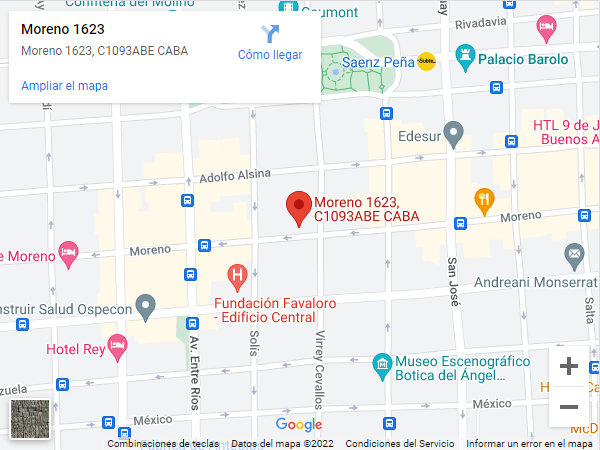
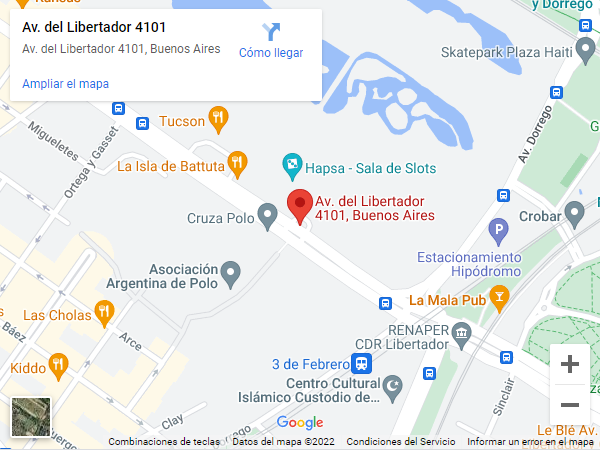
Cambiado nombre/ubicación del refugio ficticio, creado formulario de pre-inscripción en panel de usuario

diff --git a/src/components/user/Profile.jsx b/src/components/user/Profile.jsx
@@ -1,0 +1,178 @@
+function Profile() {
+    return (
+        <div className="profile-wrapper">
+            <h1>Panel de usuario</h1>
+            <div className="row">
+                <div className="col">
+					<ul className="nav nav-pills justify-content-center" id="pills-tab" role="tablist">
+						<li className="nav-item" role="presentation">
+							<button className="nav-link" id="pills-personal-tab" data-bs-toggle="pill" data-bs-target="#pills-personal" type="button" role="tab" aria-controls="pills-personal" aria-selected="true"><i className="bi bi-person-fill"></i> Datos personales</button>
+						</li>
+						<li className="nav-item" role="presentation">
+							<button className="nav-link active" id="pills-adoption-tab" data-bs-toggle="pill" data-bs-target="#pills-adoption" type="button" role="tab" aria-controls="pills-adoption" aria-selected="false"><i className="bi bi-file-text-fill"></i> Formulario de pre-adopción</button>
+						</li>
+						<li className="nav-item" role="presentation">
+							<button className="nav-link" id="pills-settings-tab" data-bs-toggle="pill" data-bs-target="#pills-settings" type="button" role="tab" aria-controls="pills-settings" aria-selected="false"><i className="bi bi-gear-fill"></i> Configuración</button>
+						</li>
+					</ul>
+					<div className="tab-content" id="pills-tabContent">
+						<div className="tab-pane fade" id="pills-personal" role="tabpanel" aria-labelledby="pills-personal-tab" tabIndex="0">
+							<div className='row thumbnails-wrapper'>
+								<p>Datos personales</p>
+							</div>
+						</div>
+						<div className="tab-pane fade show active" id="pills-adoption" role="tabpanel" aria-labelledby="pills-adoption-tab" tabIndex="0">
+                            <div className="row">
+                                <div id="adoption_form_wrapper">
+                                    <h4>Para poder postularse e iniciar el proceso de adopción de un animal, es necesario que completes este formulario para brindarle información a los refugios sobre tu persona y te tengan en consideración.</h4>
+									{/*<img className="img-fluid" width={300} src="https://cdn.wamiz.fr/article/images/WAMIZ%20ES/FEBRERO%202021/MARZO%202021/gatoguinandoojoysonriendo.jpg" alt="gato"/>*/}
+									<div class="card">
+										<div class="card-body">
+											<p><span className="badge rounded-pill text-bg-danger"><i className="bi bi-exclamation-circle"></i> Importante:</span> tus respuestas serán evaluadas por los responsables del refugio y, en base a su criterio, tu solicitud de adopción será aceptada o rechazada.</p>											
+											<div className="row">
+												<div className="col">
+													<div className="form-field">
+														<p>¿Alguna vez tuvo a cargo alguna mascota?*</p>	
+														<div class="form-check form-check-inline">
+																<input class="form-check-input" type="radio" name="radioI" id="inlineRadio1" value="option1"/>
+																<label class="form-check-label" for="inlineRadio1">Si</label>
+														</div>
+														<div class="form-check form-check-inline">
+															<input class="form-check-input" type="radio" name="radioI" id="inlineRadio2" value="option2"/>
+															<label class="form-check-label" for="inlineRadio2">No</label>
+														</div>
+													</div>
+													<div className="form-field">
+														<p>¿Convive con más personas?*</p>	
+														<div class="form-check form-check-inline">
+																<input class="form-check-input" type="radio" name="radioII" id="inlineRadio3" value="option1"/>
+																<label class="form-check-label" for="inlineRadio3">Si</label>
+														</div>
+														<div class="form-check form-check-inline">
+															<input class="form-check-input" type="radio" name="radioII" id="inlineRadio4" value="option2"/>
+															<label class="form-check-label" for="inlineRadio4">No</label>
+														</div>
+													</div>
+													<div className="form-field">
+														<p>¿Cuántos ambientes tiene su hogar?*</p>
+														<div class="form-check form-check-inline">
+															<input class="form-check-input" type="radio" name="radioIII" id="inlineRadio5" value="option1"/>
+															<label class="form-check-label" for="inlineRadio5">2</label>
+														</div>
+														<div class="form-check form-check-inline">
+															<input class="form-check-input" type="radio" name="radioIII" id="inlineRadio6" value="option2"/>
+															<label class="form-check-label" for="inlineRadio6">3</label>
+														</div>
+														<div class="form-check form-check-inline">
+															<input class="form-check-input" type="radio" name="radioIII" id="inlineRadio7" value="option3"/>
+															<label class="form-check-label" for="inlineRadio7">4 o más</label>
+														</div>
+													</div>
+													<div className="form-field">
+														<p>¿Cuántas veterinarias tiene cerca de su zona?*</p>
+														<input type="number" className="form-control"/>
+													</div>
+													<div className="form-field">
+														<p>Su hogar tiene...*</p>
+														<div class="form-check form-check-inline">
+															<input class="form-check-input" type="checkbox" id="inlineCheckbox1" value="option1"/>
+															<label class="form-check-label" for="inlineCheckbox1">Patio (para perros)</label>
+														</div>
+														<div class="form-check form-check-inline">
+															<input class="form-check-input" type="checkbox" id="inlineCheckbox2" value="option2"/>
+															<label class="form-check-label" for="inlineCheckbox2">Balcón (para perros)</label>
+														</div>
+														<div class="form-check form-check-inline">
+															<input class="form-check-input" type="checkbox" id="inlineCheckbox3" value="option3"/>
+															<label class="form-check-label" for="inlineCheckbox3">Redes en ventanas a altura (para gatos)</label>
+														</div>
+													</div>
+													<div className="form-field">
+														<p>¿Posee mascotas actualmente?*</p>	
+														<div class="form-check form-check-inline">
+																<input class="form-check-input" type="radio" name="radioIV" id="inlineRadio8" value="option1"/>
+																<label class="form-check-label" for="inlineRadio8">Si</label>
+														</div>
+														<div class="form-check form-check-inline">
+															<input class="form-check-input" type="radio" name="radioIV" id="inlineRadio9" value="option2"/>
+															<label class="form-check-label" for="inlineRadio9">No</label>
+														</div>
+													</div>
+													<div className="form-field">
+														<p>¿Tiene conocimiento acerca de la ley del maltrato animal?*</p>
+														<div class="form-check form-check-inline">
+																<input class="form-check-input" type="radio" name="radioV" id="inlineRadio10" value="option1"/>
+																<label class="form-check-label" for="inlineRadio10">Si</label>
+														</div>
+														<div class="form-check form-check-inline">
+															<input class="form-check-input" type="radio" name="radioV" id="inlineRadio11" value="option2"/>
+															<label class="form-check-label" for="inlineRadio11">No</label>
+														</div>
+													</div>
+													<div className="form-field">
+														<p>¿Con que frecuencia quedaría solo el animal en el hogar?...*</p>
+														<div class="form-check form-check-inline">
+															<input class="form-check-input" type="radio" name="radioVI" id="inlineRadio12" value="option1"/>
+															<label class="form-check-label" for="inlineRadio12">Poco frecuente</label>
+														</div>
+														<div class="form-check form-check-inline">
+															<input class="form-check-input" type="radio" name="radioVI" id="inlineRadio13" value="option2"/>
+															<label class="form-check-label" for="inlineRadio13">Algo frecuente</label>
+														</div>
+														<div class="form-check form-check-inline">
+															<input class="form-check-input" type="radio" name="radioVI" id="inlineRadio14" value="option3"/>
+															<label class="form-check-label" for="inlineRadio14">Muy frecuente</label>
+														</div>
+													</div>
+													<div className="form-field">
+														<p>Si hubiera una emergencia con el animal, ¿tendria alguien a quien recurrir para que lo lleve al veterinario?*</p>
+														<div class="form-check form-check-inline">
+																<input class="form-check-input" type="radio" name="radioVII" id="inlineRadio15" value="option1"/>
+																<label class="form-check-label" for="inlineRadio15">Si</label>
+														</div>
+														<div class="form-check form-check-inline">
+															<input class="form-check-input" type="radio" name="radioVII" id="inlineRadio16" value="option2"/>
+															<label class="form-check-label" for="inlineRadio16">No</label>
+														</div>
+													</div>
+													<div className="form-field">
+														<p>¿Su remuneración es acorde a los gastos que estima tener para el cuidado del animal?*</p>
+														<div class="form-check form-check-inline">
+															<input class="form-check-input" type="radio" name="radioVIII" id="inlineRadio17" value="option1"/>
+															<label class="form-check-label" for="inlineRadio17">Si</label>
+														</div>
+														<div class="form-check form-check-inline">
+															<input class="form-check-input" type="radio" name="radioVIII" id="inlineRadio18" value="option2"/>
+															<label class="form-check-label" for="inlineRadio18">No</label>
+														</div>
+													</div>
+													<div className="form-field">
+														<p>¿Tiene familiares o conocidos que lo aconsejen (gracias a su experiencia) ante cualquier eventualidad durante la crianza del animal?*</p>
+														<div class="form-check form-check-inline">
+															<input class="form-check-input" type="radio" name="radioIX" id="inlineRadio19" value="option1"/>
+															<label class="form-check-label" for="inlineRadio19">Si</label>
+														</div>
+														<div class="form-check form-check-inline">
+															<input class="form-check-input" type="radio" name="radioIX" id="inlineRadio20" value="option2"/>
+															<label class="form-check-label" for="inlineRadio20">No</label>
+														</div>
+													</div>
+													<p><small><i>(*) Todos los campos son obligatorios</i></small></p>
+												</div>
+											</div>
+										</div>
+									</div>
+                                </div>
+                            </div>
+                        </div>
+						<div className="tab-pane fade" id="pills-settings" role="tabpanel" aria-labelledby="pills-settings-tab" tabIndex="0">
+                            <p>Configuración</p>
+                        </div>
+					</div>
+				</div>
+            </div>
+        </div>
+    );
+}
+
+export default Profile;

diff --git a/src/components/shelter/sections/Publication.jsx b/src/components/shelter/sections/Publication.jsx
@@ -1,6 +1,8 @@
 import {useState,useEffect, useCallback} from 'react';
 import {Link, useNavigate} from 'react-router-dom';
 
+import AdoptionProcessStarted from './AdoptionProcessStarted';
+
 function Publication() {
     const navigate = useNavigate();
     //const [didMount, setDidMount] = useState(false);
@@ -49,21 +51,25 @@ function Publication() {
                             </div>
                             <div className="information">
                                 <span>Nombre:</span>
-                                <p><img className="img-fluid" width={20} src="/img/posts/huellas.png" alt="huella"/> Ayudante de santa</p>
+                                <p><img className="img-fluid" width={20} src="/img/posts/huellas.png" alt="huella"/> Chispita</p>
                                 <span>Edad aproximada:</span>
                                 <p><img className="img-fluid" width={20} src="/img/posts/huellas.png" alt="huella"/> 4 años</p>
                                 <span>Situación previa:</span>
                                 <p><img className="img-fluid" width={20} src="/img/posts/huellas.png" alt="huella"/> En la calle</p>
                                 <span>Vacunas aplicadas:</span>
                                 <ul>
-                                    <li>Antirrábica</li>
-                                    <li>Polivalente</li>
+                                    <li>Rabia</li>
+                                    <li>Moquillo</li>
                                     <li>Parvovirus</li>
                                 </ul>
                                 <span>Raza:</span>
                                 <p><img className="img-fluid" width={20} src="/img/posts/huellas.png" alt="huella"/> Labrador</p>
                                 <span>Altura:</span>
                                 <p><img className="img-fluid" width={20} src="/img/posts/huellas.png" alt="huella"/> 60cm.</p>
+                                <span>Esterilizado</span>
+                                <p><img className="img-fluid" width={20} src="/img/posts/huellas.png" alt="huella"/> Si</p>
+                                <span>Desparasitado</span>
+                                <p><img className="img-fluid" width={20} src="/img/posts/huellas.png" alt="huella"/> Si</p>
                                 <p>Observaciones:</p>
                                 <p>There are many variations of passages of Lorem Ipsum available, but the majority have suffered alteration in some form, by injected humour, or randomised words which don't look even slightly believable. If you are going to use a passage of Lorem Ipsum, you need to be sure there isn't anything embarrassing hidden in the middle of text.</p>
                             </div>
@@ -72,25 +78,7 @@ function Publication() {
                 </div>
             </div>
             
-            <div className="modal fade" id="startAdoptionModal" tabIndex="-1" data-bs-backdrop="static" data-bs-keyboard="false" aria-labelledby="exampleModalLabel" aria-hidden="true">
-                <div className="modal-dialog modal-dialog-centered">
-                    <div className="modal-content">
-                    {/*<div className="modal-header">
-                        <h1 className="modal-title fs-5" id="exampleModalLabel">Modal title</h1>
-                        <button type="button" className="btn-close" data-bs-dismiss="modal" aria-label="Close"></button>
-                    </div>*/}
-                    <div className="modal-body">
-                        <img className="img-fluid" width={200} src="/img/posts/perro_saludando.png" alt="perro_saludando"/>
-                        <h2>¡Felicitaciones!</h2>
-                        <p>Estás un paso más cerca de ese gran amigo que estás buscando.</p>
-                        <p>El refugio se contactará contigo para coordinar una cita.</p>
-                    </div>
-                    <div className="modal-footer">
-                        <button type="button" className="btn btn-primary" data-bs-dismiss="modal">De acuerdo</button>
-                    </div>
-                    </div>
-                </div>
-            </div>
+            <AdoptionProcessStarted/>
         </>
     );
 }

diff --git a/src/components/user/Notifications.jsx b/src/components/user/Notifications.jsx
@@ -7,10 +7,10 @@ function Notifications() {
             <h3><i className="bi bi-eye-slash"></i> Solicitudes pendientes</h3>
             <div className="card notification text-center">
                 <div className="card-body">
-                    <h5 className="card-title">El <Link to="/shelter/1">Refugio #1</Link> ha respondido tu solicitud de adopción</h5>
+                    <h5 className="card-title">El <Link to="/shelter/1">Refugio San Pedro</Link> ha respondido tu solicitud de adopción</h5>
                     <img className="img-fluid" width={100} src="/img/clock.png" alt="clock"/>
                     <p className="card-text pt-2">Se te ha reservado un turno para visitar el refugio en la siguiente fecha:</p>
-                    <p><b>10/11/2022 a las 12:00 hs.</b></p>
+                    <p><b>20/11/2022 a las 12:00 hs.</b></p>
                     <button type="button" className="btn btn-danger me-4"><i className="bi bi-x-lg"></i> Cancelar adopción</button>
                     <button type="button" className="btn btn-primary me-4"><i className="bi bi-check-lg"></i> Confirmo asistencia</button>
                     <button type="button" className="btn btn-secondary"><i className="bi bi-clock"></i> Reprogramar cita</button>
@@ -24,8 +24,8 @@ function Notifications() {
                 <div className="card-body">
                     <img className="img-fluid" width={80} src="/img/check.png" alt="check"/>
                     <h5 className="card-title">Visita confirmada</h5>
-                    <p className="card-text pt-2">Has confirmado tu asistencia para visitar el <Link to="/shelter/1">Refugio #1</Link> en la siguiente fecha:</p>
-                    <p><b>10/11/2022 a las 12:00 hs.</b></p>
+                    <p className="card-text pt-2">Has confirmado tu asistencia para visitar el <Link to="/shelter/1">Refugio San Pedro</Link> en la siguiente fecha:</p>
+                    <p><b>20/11/2022 a las 12:00 hs.</b></p>
                 </div>
                 <div className="card-footer text-muted"><small>Visita confirmada el 5/11/2022 21:45 hs.</small></div>
             </div>

diff --git a/src/components/shelter/sections/AdoptionProcessStarted.jsx b/src/components/shelter/sections/AdoptionProcessStarted.jsx
@@ -1,6 +1,20 @@
 function AdoptionProcessStarted() {
     return (
-        <div></div>
+        <div className="modal fade" id="startAdoptionModal" tabIndex="-1" data-bs-backdrop="static" data-bs-keyboard="false" aria-labelledby="exampleModalLabel" aria-hidden="true">
+            <div className="modal-dialog modal-dialog-centered">
+                <div className="modal-content">
+                    <div className="modal-body">
+                        <img className="img-fluid" width={200} src="/img/posts/perro_saludando.png" alt="perro_saludando"/>
+                        <h2>¡Felicitaciones!</h2>
+                        <p>Estás un paso más cerca de ese gran amigo que estás buscando.</p>
+                        <p>El refugio se contactará contigo para coordinar una cita.</p>
+                    </div>
+                    <div className="modal-footer">
+                        <button type="button" className="btn btn-primary" data-bs-dismiss="modal">De acuerdo</button>
+                    </div>
+                </div>
+            </div>
+        </div>
     );
 }
 

diff --git a/src/components/App.js b/src/components/App.js
@@ -4,6 +4,7 @@ import {Routes,Route} from 'react-router-dom';
 import Welcome from "./home/Welcome";
 import AuthenticationForms from "./auth/AuthenticationForms";
 //import Register from "./auth/Register";
+import Profile from "./user/Profile";
 import Notifications from "./user/Notifications";
 import Shelter from './shelter/Shelter';
 import ShelterDetails from './shelter/ShelterDetails';
@@ -22,6 +23,7 @@ class Layout extends React.Component {
                 <Routes>
                     <Route exact path="/" element={<Welcome/>}></Route>
                     <Route path="/auth/signin" element={<AuthenticationForms/>}></Route>
+                    <Route path="/user/profile" element={<Profile/>}></Route>
                     <Route path="/user/notifications" element={<Notifications/>}></Route>
                     <Route path="/shelter" element={<Shelter/>}>
                         <Route path="*" element={<NotFound/>}></Route>

diff --git a/public/css/site.css b/public/css/site.css
@@ -76,6 +76,19 @@ body {
 	font-family: 'Inter';
 }
 
+#root::after {
+	content: '';
+	position: fixed;
+	top: 0;
+	left: 0;
+  	bottom: 0;
+  	right: 0;
+  	z-index: -1;
+	background-image: url('../img/posts/huellas.png');
+	background-repeat: repeat;
+	opacity: 0.016;
+}
+
 #root > :nth-child(2):not(section) {
 	padding-top: 5rem;
 }
@@ -99,6 +112,8 @@ a{
 
 .btn:not(#shelter_search_button) {
 	border-radius: var(--default-border-radius) !important;
+	padding-right: 2rem;
+	padding-left: 2rem;
 }
 
 /*#shelter_zones, #shelter_search {
@@ -124,7 +139,7 @@ a{
 	background-color: #3b81ff !important;
 }
 
-button[class*="btn-"]:hover {
+button[class*="btn-"]:hover, a[class*="btn-"]:hover {
 	box-shadow: 0px 1px 4px 0px #424242;
 }
 

diff --git a/src/components/shelter/Shelter.jsx b/src/components/shelter/Shelter.jsx
@@ -41,10 +41,10 @@ function Shelter(props) {
 
     return (
         <div className="shelters-wrapper">
-            <h1><i className="bi bi-geo-alt-fill"></i> Refugios encontrados en tu zona: Monserrat</h1>
-            <div className="row pb-4">{sheltersLoop('Monserrat', true)}</div>
+            <h1><i className="bi bi-geo-alt-fill"></i> Refugios encontrados en tu zona: Palermo</h1>
+            <div className="row pb-4">{sheltersLoop('Palermo', true)}</div>
             <h2 className="pt-4">Otros refugios que te pueden interesar</h2>
-            <div className="row">{sheltersLoop('Monserrat', false)}</div>
+            <div className="row">{sheltersLoop('Palermo', false)}</div>
         </div>
     );
 }

diff --git a/public/css/user.css b/public/css/user.css
@@ -7,3 +7,27 @@
 .notification {
     margin-bottom: 2rem;
 }
+
+#adoption_form_wrapper {
+    text-align: center;
+}
+
+#adoption_form_wrapper > .card {
+    margin-top: 2rem;
+}
+
+.badge {
+    font-size: initial;
+    font-weight: normal;
+}
+
+.form-field {
+    padding-top: 1rem;
+    padding-bottom: 1rem;
+}
+
+.form-field input[class="form-control"] {
+    width: auto;
+    margin: 0 auto;
+    text-align: center;
+}

diff --git a/src/components/shelter/sections/AssociatedVeterinarians.jsx b/src/components/shelter/sections/AssociatedVeterinarians.jsx
@@ -10,7 +10,7 @@ function AssociatedVeterinarians() {
                     </div>
                     <div className="col-6">
                         <h4>Dirección:</h4>
-                        <p>Av. Belgrano 1746, Monserrat</p>
+                        <p>Av. Sta. Fe 3253, Palermo</p>
                         <h4>Teléfono:</h4>
                         <p>(011) 5555-5555</p>
                         <h4>Horario:</h4>
